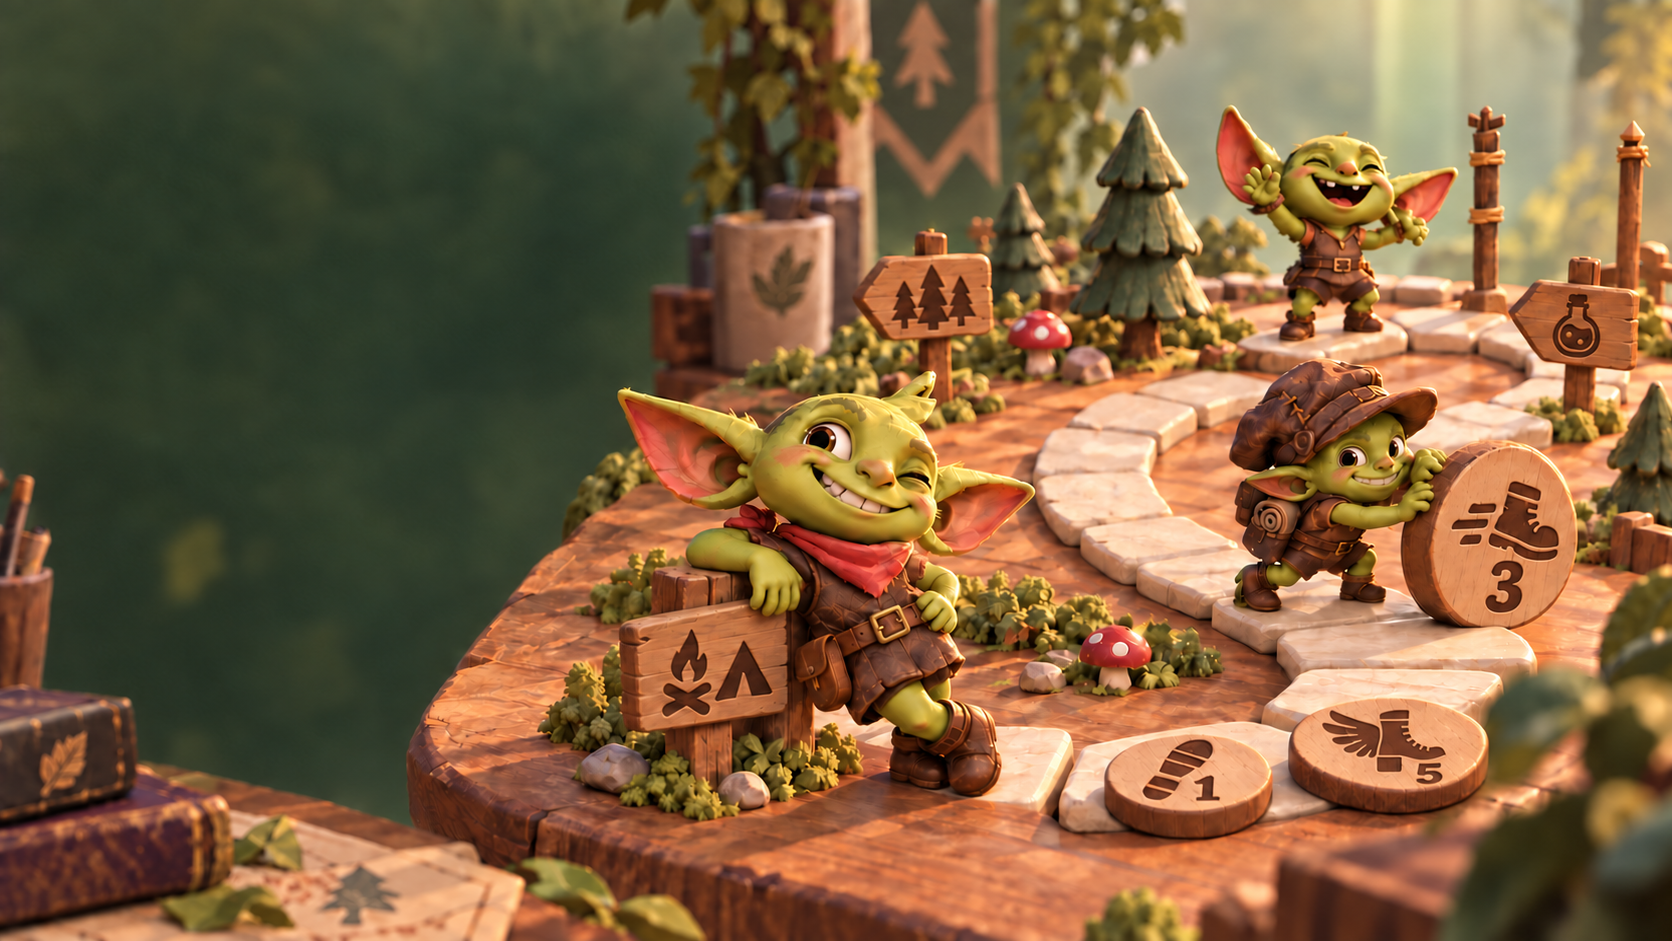
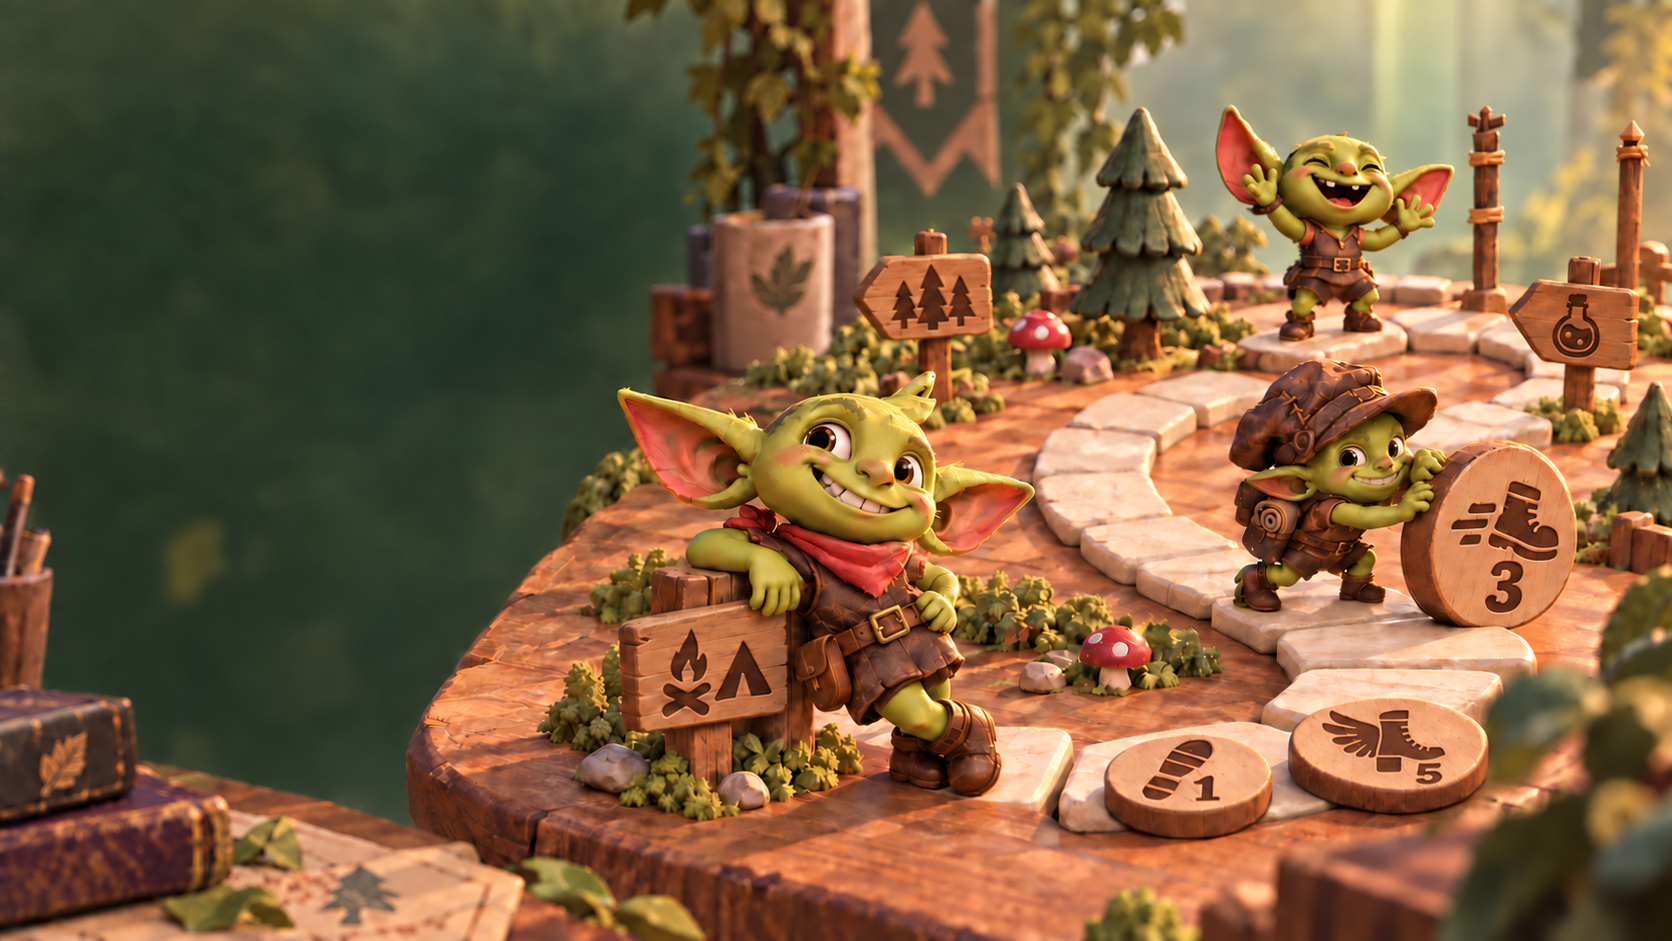
Add start menu animation

diff --git a/Assets/_Project/03_UI/MainMenu/MenuAmbientView.cs b/Assets/_Project/03_UI/MainMenu/MenuAmbientView.cs
@@ -5,6 +5,16 @@ using UnityEngine.UIElements;
 [Serializable]
 public sealed class MenuAmbientSettings
 {
+    [Header("Menu entrance (seconds)")]
+    [Range(0, 3)] public float entranceDelay = 0.08f;
+    [Range(0, 3)] public float entranceDuration = 0.8f;
+    [Tooltip("Pause between the title, tagline and each button.")]
+    [Range(0, 1)] public float entranceStagger = 0.16f;
+
+    [Header("Map transition (seconds)")]
+    [Range(0, 2)] public float fadeOutDuration = 0.4f;
+    [Range(0, 2)] public float fadeInDuration = 0.55f;
+
     [Header("Dust / sparks")]
     [Range(0, 400)] public int dustCount = 220;
     [Range(0, 4)] public float dustSpeed = 1;
@@ -45,7 +55,7 @@ internal sealed class MenuAmbientView : IDisposable
     private float leafCycle = 4f / 18f;
     private float birdTime = -2;
     private float lastTime;
-    private readonly float entranceStart;
+    private float entranceStart = -1;
     private bool entranceFinished;
 
     public MenuAmbientView(VisualElement root, MenuAmbientSettings settings)
@@ -60,10 +70,10 @@ internal sealed class MenuAmbientView : IDisposable
         layer.style.overflow = Overflow.Hidden;
         menu.Insert(0, layer);
         layer.generateVisualContent += Draw;
-        entrance = new[] { root.Q("GlimblehopLogo"), root.Q("GlimblehopTagline"), root.Q("ModeButtonsColumn") };
+        entrance = new[] { root.Q("GlimblehopLogo"), root.Q("GlimblehopTagline"), root.Q("btnLong"), root.Q("btnTutorial") };
+        foreach (var element in entrance) element?.AddToClassList("menu-entering");
         UpdateEntrance(0);
         lastTime = Time.realtimeSinceStartup;
-        entranceStart = lastTime;
         tick = layer.schedule.Execute(Update).Every(33);
     }
 
@@ -72,7 +82,12 @@ internal sealed class MenuAmbientView : IDisposable
         float now = Time.realtimeSinceStartup;
         float dt = Mathf.Clamp(now - lastTime, 0, 0.1f);
         lastTime = now;
-        if (!entranceFinished) UpdateEntrance(menu.enabledInHierarchy ? now - entranceStart : 1);
+        if (!entranceFinished)
+        {
+            // Start after layout, so scene loading doesn't consume the entrance animation.
+            if (entranceStart < 0) entranceStart = now;
+            UpdateEntrance(menu.enabledInHierarchy ? now - entranceStart : float.PositiveInfinity);
+        }
         // Freeze while unfocused or covered by a modal; don't jump on return.
         if (!Application.isFocused || !menu.enabledInHierarchy || menu.resolvedStyle.display == DisplayStyle.None)
             return;
@@ -86,15 +101,29 @@ internal sealed class MenuAmbientView : IDisposable
 
     private void UpdateEntrance(float time)
     {
+        if (entrance == null) return;
         for (int i = 0; i < entrance.Length; i++)
         {
             if (entrance[i] == null) continue;
-            float t = Mathf.Clamp01((time - i * 0.10f) / 0.55f);
+            float delay = Mathf.Max(0, settings.entranceDelay) + i * Mathf.Max(0, settings.entranceStagger);
+            float duration = Mathf.Max(0, settings.entranceDuration);
+            float t = time < delay ? 0 : duration <= 0 ? 1 : Mathf.Clamp01((time - delay) / duration);
             float eased = 1 - Mathf.Pow(1 - t, 3);
-            entrance[i].style.opacity = eased;
-            entrance[i].style.translate = new Translate(0, (1 - eased) * 18);
+            entrance[i].style.opacity = Mathf.SmoothStep(0, 1, Mathf.Clamp01(t * 1.5f));
+            entrance[i].style.translate = new Translate(0, (1 - eased) * (i == 0 ? 30 : 22));
+            // Scale the title only; button hover/press scaling stays owned by USS.
+            if (i == 0) entrance[i].style.scale = new Scale(Vector3.one * Mathf.Lerp(0.94f, 1, eased));
+            if (t >= 1)
+            {
+                entrance[i].style.opacity = StyleKeyword.Null;
+                entrance[i].style.translate = StyleKeyword.Null;
+                if (i == 0) entrance[i].style.scale = StyleKeyword.Null;
+                entrance[i].RemoveFromClassList("menu-entering");
+            }
         }
-        entranceFinished = time >= 0.75f;
+        entranceFinished = time >= Mathf.Max(0, settings.entranceDelay)
+            + (entrance.Length - 1) * Mathf.Max(0, settings.entranceStagger)
+            + Mathf.Max(0, settings.entranceDuration);
     }
 
     private void Draw(MeshGenerationContext context)
@@ -187,6 +216,6 @@ internal sealed class MenuAmbientView : IDisposable
         if (layer == null) return;
         layer.generateVisualContent -= Draw;
         layer.RemoveFromHierarchy();
-        UpdateEntrance(1);
+        UpdateEntrance(float.PositiveInfinity);
     }
 }

diff --git a/Assets/_Project/03_UI/MainMenu/MainMenuController.cs b/Assets/_Project/03_UI/MainMenu/MainMenuController.cs
@@ -1,4 +1,5 @@
 using System;
+using System.Collections;
 using System.Collections.Generic;
 using Diceforge.Audio;
 using Diceforge.Battle;
@@ -30,6 +31,10 @@ public class MainMenuController : MonoBehaviour
     private UIDocument document;
     private VisualElement root;
     private MenuAmbientView ambientView;
+    private Coroutine screenTransition;
+    private VisualElement transitionVeil;
+    private bool isScreenTransitioning;
+    private bool rootWasEnabled;
     [Header("Menu atmosphere")]
     [SerializeField] private MenuAmbientSettings atmosphere = new MenuAmbientSettings();
     private Label buildInfoLabel;
@@ -818,8 +823,72 @@ public class MainMenuController : MonoBehaviour
 
     private void OpenMapChapter()
     {
-        ShowPanel("MenuPanel");
-        mapFlowOrchestrator?.StartChapter(defaultChapterId);
+        if (mapFlowOrchestrator == null) return;
+        TransitionToScreen(() =>
+        {
+            ShowPanel("MenuPanel");
+            mapFlowOrchestrator.StartChapter(defaultChapterId);
+        });
+    }
+
+    private void TransitionToScreen(Action switchScreen)
+    {
+        if (isScreenTransitioning || root == null || !isActiveAndEnabled) return;
+        isScreenTransitioning = true;
+        screenTransition = StartCoroutine(FadeToScreen(switchScreen));
+    }
+
+    private IEnumerator FadeToScreen(Action switchScreen)
+    {
+        rootWasEnabled = root.enabledSelf;
+        root.SetEnabled(false);
+        transitionVeil = new VisualElement { name = "MenuTransitionVeil", pickingMode = PickingMode.Position };
+        transitionVeil.style.position = Position.Absolute;
+        transitionVeil.style.left = transitionVeil.style.top = transitionVeil.style.right = transitionVeil.style.bottom = 0;
+        transitionVeil.style.backgroundColor = new Color(0.035f, 0.045f, 0.025f, 1);
+        transitionVeil.style.opacity = 0;
+        root.Add(transitionVeil);
+        try
+        {
+            yield return FadeVeil(0, 1, atmosphere.fadeOutDuration);
+            // Render a fully covered frame before rebuilding the map.
+            yield return null;
+            switchScreen();
+            transitionVeil.BringToFront();
+            yield return null;
+            yield return FadeVeil(1, 0, atmosphere.fadeInDuration);
+        }
+        finally
+        {
+            FinishScreenTransition();
+        }
+    }
+
+    private IEnumerator FadeVeil(float from, float to, float duration)
+    {
+        float time = 0;
+        while (time < duration)
+        {
+            transitionVeil.style.opacity = Mathf.Lerp(from, to, Mathf.SmoothStep(0, 1, time / duration));
+            yield return null;
+            time += Time.unscaledDeltaTime;
+        }
+        transitionVeil.style.opacity = to;
+    }
+
+    private void FinishScreenTransition()
+    {
+        transitionVeil?.RemoveFromHierarchy();
+        transitionVeil = null;
+        if (isScreenTransitioning) root?.SetEnabled(rootWasEnabled);
+        isScreenTransitioning = false;
+        screenTransition = null;
+    }
+
+    private void OnDisable()
+    {
+        if (screenTransition != null) StopCoroutine(screenTransition);
+        FinishScreenTransition();
     }
 
     private void HandleMapResetRequested()
@@ -835,6 +904,6 @@ public class MainMenuController : MonoBehaviour
     private void HandleMapBackRequested()
     {
         var mapController = GetComponent<MapController>();
-        mapController?.Hide();
+        if (mapController != null) TransitionToScreen(mapController.Hide);
     }
 }

diff --git a/docs/MENU_MOTION_ART.md b/docs/MENU_MOTION_ART.md
@@ -3,9 +3,9 @@
 Created using built-in Imagegen; original background-landscape.png is preserved.
 
 Runtime assets under Assets/_Project/07_Art/UI/GlimblehopMenu:
-- background-landscape-clean.png: corrected hands (one thumb and three fingers), open eyes on the hat goblin only, heel-facing wing on token 5, flag cloth removed with forest reconstructed.
+- background-landscape-clean.png: corrected hands (one thumb and three fingers), both eyes open on the foreground and hat goblins, heel-facing wing on token 5, flag cloth removed with forest reconstructed.
 - Resources/GlimblehopMenu/finish-flag.png: transparent cloth sprite; poles remain on the background.
-- Resources/GlimblehopMenu/background-blink.png: aligned closed-eye frame. Only the foreground open eye region is sampled at runtime, with feathered patch boundaries.
+- Resources/GlimblehopMenu/background-blink.png: aligned closed-eye frame. Both foreground eye regions are sampled at runtime, with feathered patch boundaries.
 
 Final prompt set (built-in edit workflow):
 1. Preserve the exact composition, camera, lighting, empty left menu area and character identities. Correct hands to four total digits; open both eyes only on the hat goblin pushing token 3. Preserve the foreground wink and far goblin's closed eyes.
@@ -13,8 +13,12 @@ Final prompt set (built-in edit workflow):
 3. Extract ONLY red/cream checkerboard flag cloth on genuine transparent alpha, without poles, ropes, scenery or cast shadows. Preserve its perspective and handmade material.
 4. Edit only the foreground goblin's open eye to a naturally closed green eyelid. Preserve all other details and image registration for eye-patch compositing.
 
-Animation is implemented in MenuCharacterMotion and MenuAmbientView using UI Toolkit. Background-aligned parts use centered cover scaling for the 1672 x 941 source. The flag has fixed endpoints and a subtle wave; birds cross the distant upper clearing. No gameplay random state is used.
+Animation is implemented in MenuCharacterMotion and MenuAmbientView using UI Toolkit. Background-aligned parts use centered cover scaling for the 1672 x 941 source. The larger flag has fixed endpoints and a stronger wave; birds cross the distant upper clearing. No gameplay random state is used.
 
-Inspector: MainMenuController > Atmosphere. Flag Enabled toggles movement (cloth stays visible); Blink Enabled and Blink Interval Seconds control blinking. Birds Enabled and Bird Interval Seconds control the two distant silhouettes. Existing dust and leaf settings are preserved.
+Inspector: MainMenuController > Atmosphere. Flag Enabled toggles movement (cloth stays visible); Blink Enabled, Second Goblin Blink Enabled and Blink Pause Range control independent random blinking (default 3–8 seconds). Birds Enabled and Bird Interval Seconds control the two distant silhouettes. Existing dust and leaf settings are preserved.
 
 Validation: Unity MCP compilation and Play Mode checks; inspected the fully closed eye and a bird-flight frame, checked flag attachment and transparency, restored the animation scheduler after preview. No runtime errors were reported in the final Play Mode console check.
+
+Latest built-in edit prompt: Open the foreground goblin’s viewer-right eye to match his other open eye. Repair the far goblin’s raised hands, especially his left hand, to one thumb and three fingers. Preserve pose, composition, lighting, token symbols and the background without flag cloth.
+
+Latest validation: inspected both open and fully closed eye frames in Unity Play Mode against the updated background, including the enlarged flag and visible birds.
